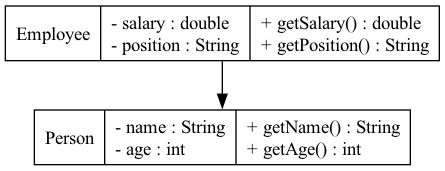
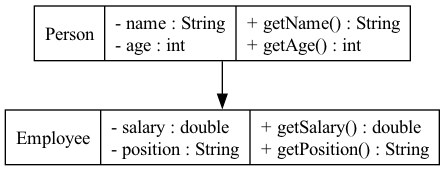
fixes

Changed region(s): [[0.0, 0.614, 0.9933, 0.9942], [0.0, 0.0292, 0.9933, 0.3801]]

diff --git a/main2.py b/main2.py
@@ -3,14 +3,12 @@ import json
 from graphviz import Digraph
 
 
-def create_uml_from_json(data_list):
+def create_uml_from_json(data_dict):
     # Create a new Digraph
     dot = Digraph('UML Diagram', format='png')
 
-    for data in data_list:
-        # Extract class details
-        class_name = data["name"]
-
+    # Iterate over each class in the dictionary
+    for class_name, data in data_dict.items():
         # Build a label for the class with its attributes and methods
         label = class_name + "|"
 
@@ -33,7 +31,7 @@ def create_uml_from_json(data_list):
         if "relations" in data:
             for relation in data["relations"]:
                 if relation["type"] == "inheritance":
-                    dot.edge(relation["target"], class_name)
+                    dot.edge(class_name, relation["target"])
 
     # Set the output file name and render the diagram
     output_file = 'uml_diagram'
@@ -43,6 +41,6 @@ def create_uml_from_json(data_list):
 
 if __name__ == '__main__':
     with open('car2.json', 'r') as f:
-        data_list = json.load(f)
+        data_dict = json.load(f)
 
-    create_uml_from_json(data_list)
+    create_uml_from_json(data_dict)
